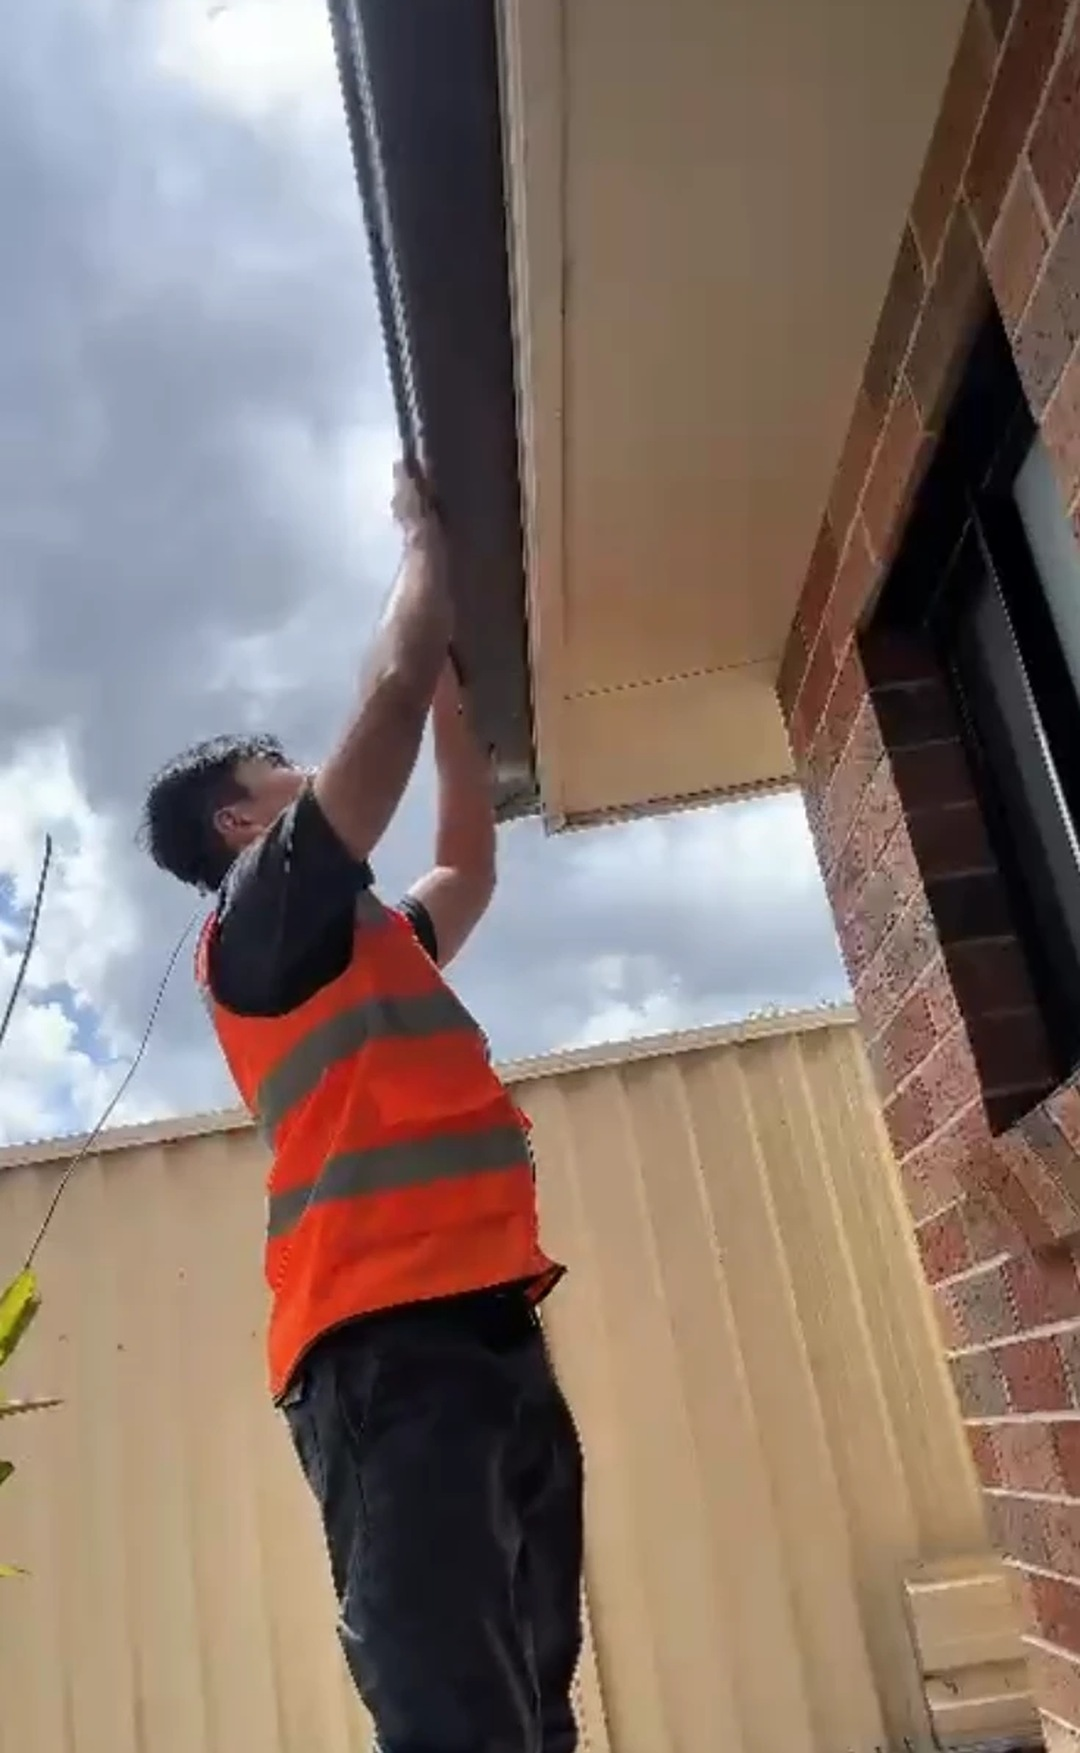
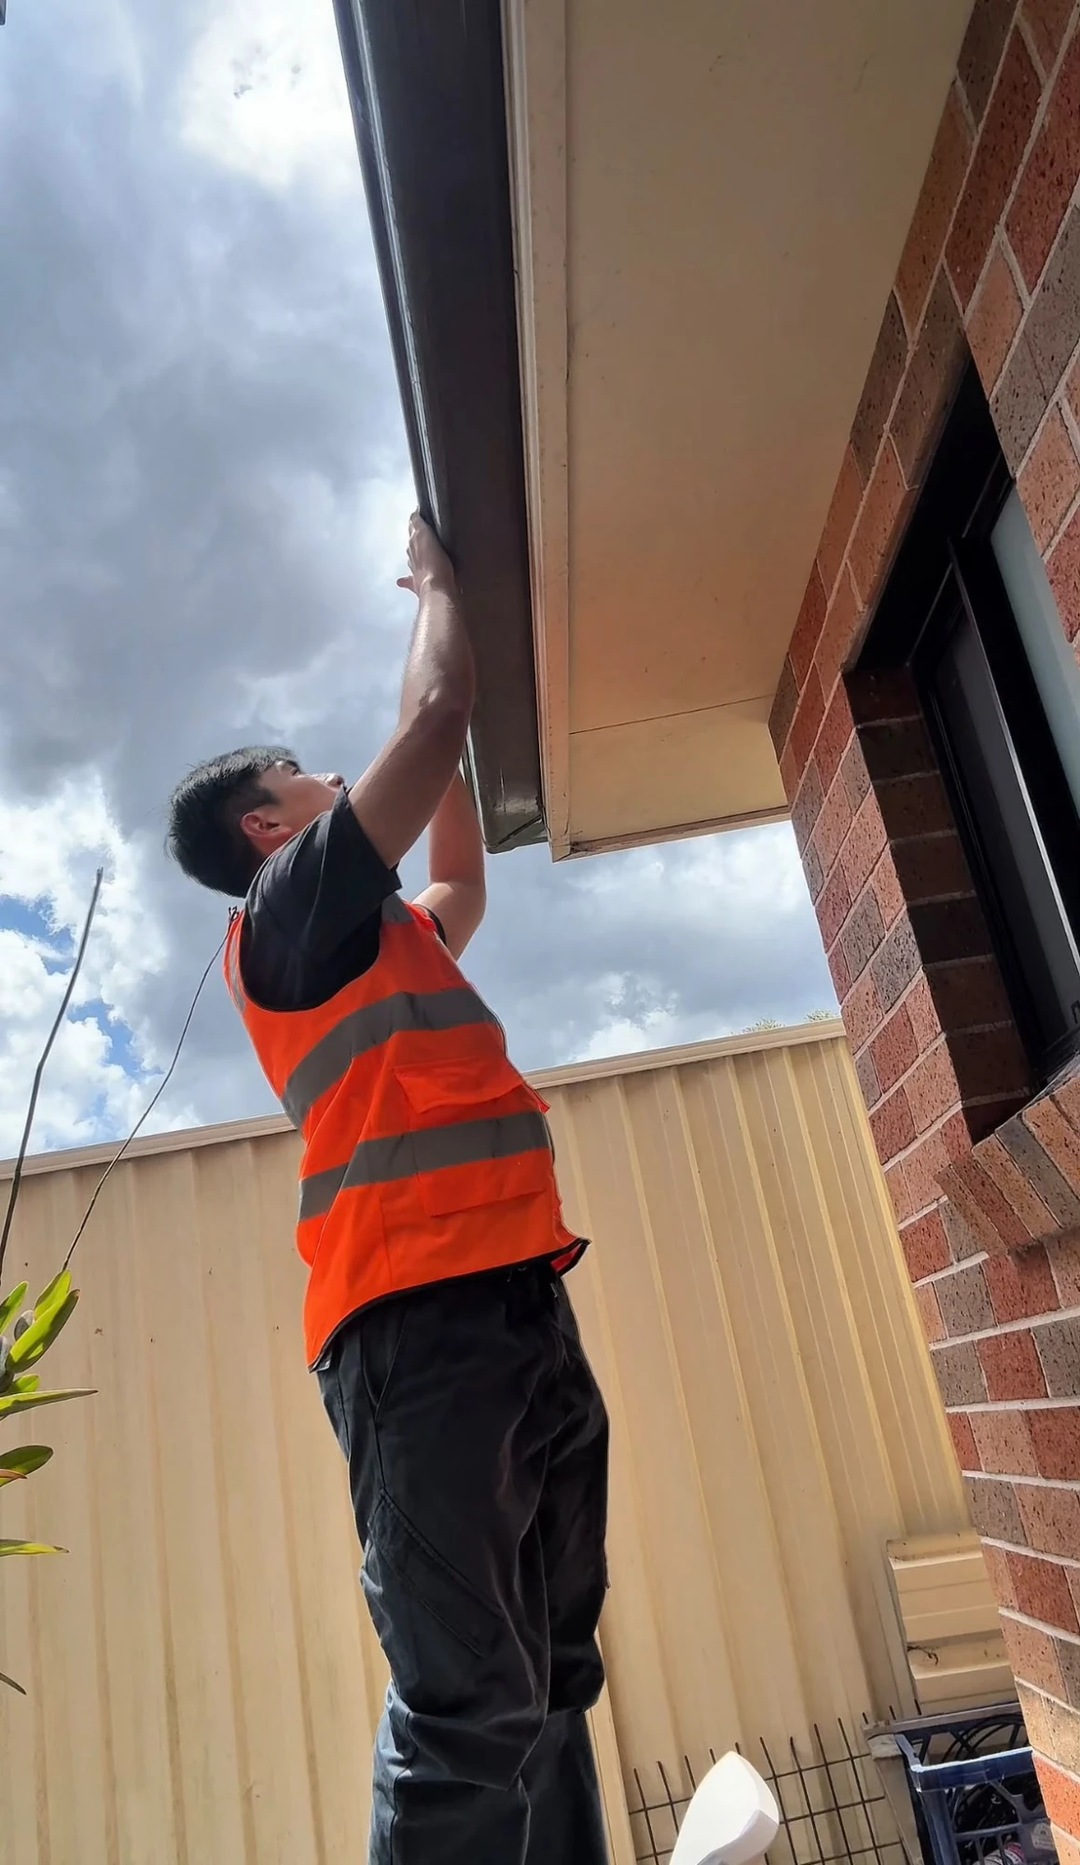
Christmas static: high-res photo, separated boxes, tree with presents
Claude-Session: https://claude.ai/code/session_01EJJBS6yp8i9PZ4b1xThW6J

diff --git a/src/Static/XmasStatic.tsx b/src/Static/XmasStatic.tsx
@@ -5,7 +5,7 @@ import { T } from "../TradieStyle/kit";
 
 // 4:5 static ad. Photo sits low so the hero title has sky above the head;
 // offer on the right beside the vest, perks bottom-left on dark glass.
-const PHOTO_TOP = -170;
+const PHOTO_TOP = -190;
 
 const Perk: React.FC<{ text: string }> = ({ text }) => (
   <div style={{ display: "flex", alignItems: "center", gap: 16, fontWeight: 800, fontSize: 31, lineHeight: 1.15, whiteSpace: "nowrap" }}>
@@ -41,7 +41,7 @@ export const XmasStatic: React.FC = () => (
       style={{
         position: "absolute",
         right: 36,
-        top: 760,
+        top: 655,
         width: 540,
         padding: "34px 34px 38px",
         borderRadius: 28,
@@ -51,8 +51,17 @@ export const XmasStatic: React.FC = () => (
         backdropFilter: "blur(10px)",
       }}
     >
-      <div style={{ fontWeight: 900, fontSize: 48, lineHeight: 1.06, letterSpacing: "-0.01em", textWrap: "balance" } as React.CSSProperties}>
-        Get <span style={{ color: T.accent }}>booked out</span> in jobs before Christmas
+      <div style={{ display: "flex", alignItems: "flex-end", gap: 10 }}>
+        <div style={{ flex: 1, fontWeight: 900, fontSize: 48, lineHeight: 1.06, letterSpacing: "-0.01em" }}>
+          Get <span style={{ color: T.accent }}>booked out</span> in jobs before Christmas
+        </div>
+        {/* Christmas tree with presents in the spare corner */}
+        <div style={{ position: "relative", width: 140, height: 190, flexShrink: 0, fontFamily: "'Noto Color Emoji'" }}>
+          <div style={{ position: "absolute", left: 0, right: 0, top: 0, textAlign: "center", fontSize: 128, lineHeight: 1 }}>🎄</div>
+          <div style={{ position: "absolute", left: -6, bottom: 0, fontSize: 48, lineHeight: 1, rotate: "-8deg" }}>🎁</div>
+          <div style={{ position: "absolute", right: -4, bottom: 2, fontSize: 42, lineHeight: 1, rotate: "10deg" }}>🎁</div>
+          <div style={{ position: "absolute", left: 46, bottom: -4, fontSize: 38, lineHeight: 1 }}>🎁</div>
+        </div>
       </div>
       <div
         style={{
@@ -71,14 +80,16 @@ export const XmasStatic: React.FC = () => (
     </div>
 
     {/* Booked-out calendar sitting on top of the offer */}
-    <BookedCalendarIcon x={774} y={600} at={-30} />
+    <div style={{ position: "absolute", inset: 0, scale: "0.8", transformOrigin: "774px 640px" }}>
+      <BookedCalendarIcon x={774} y={515} at={-30} />
+    </div>
 
     {/* Perks, lower left */}
     <div
       style={{
         position: "absolute",
         left: 40,
-        bottom: 50,
+        bottom: 36,
         padding: "28px 34px",
         borderRadius: 26,
         background: "rgba(8,16,32,0.82)",
